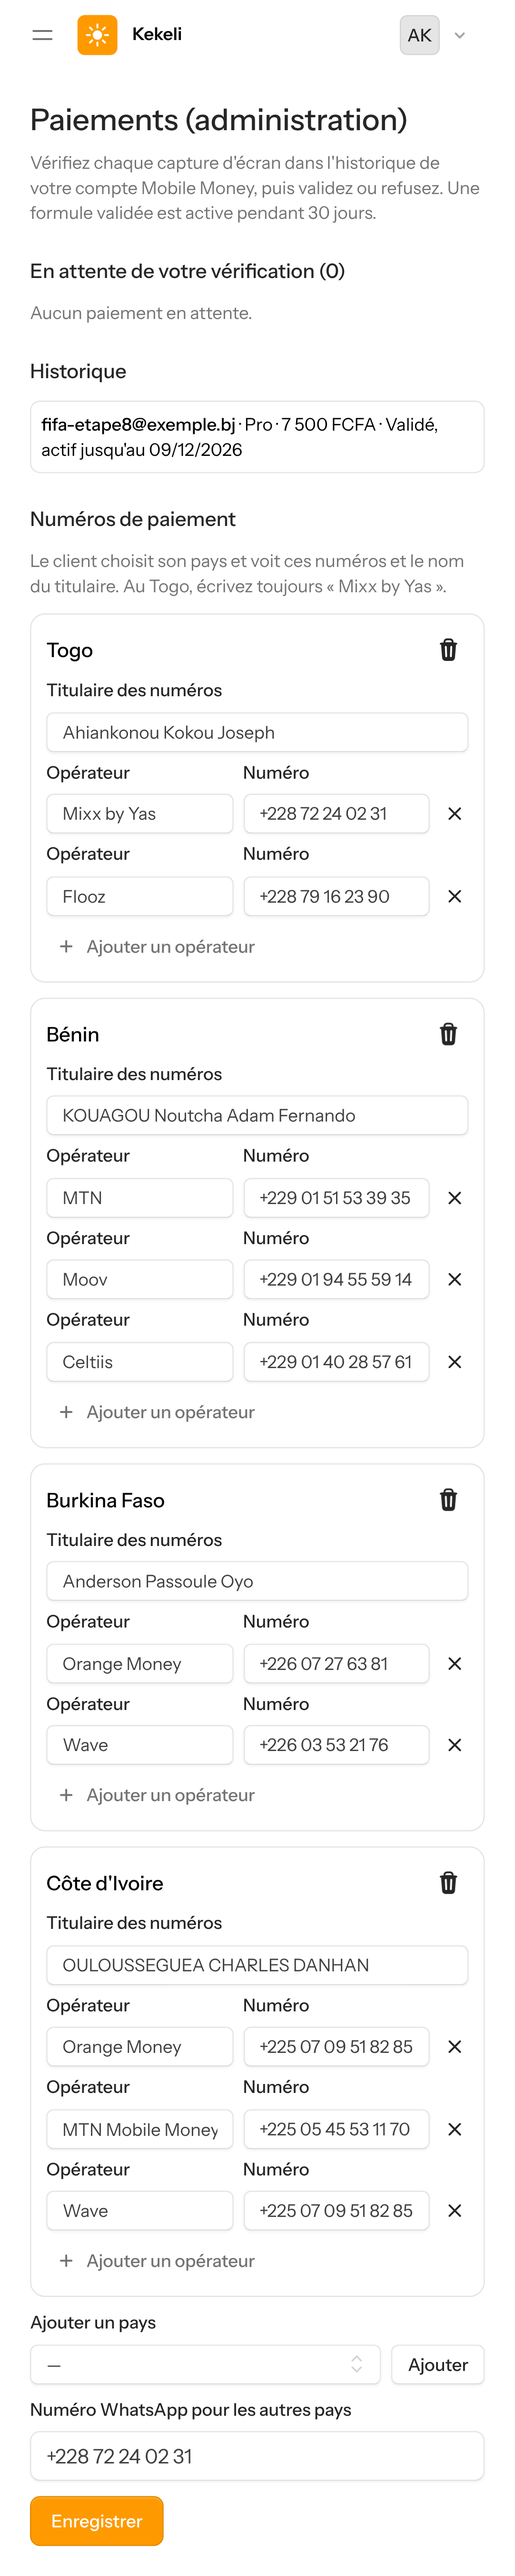
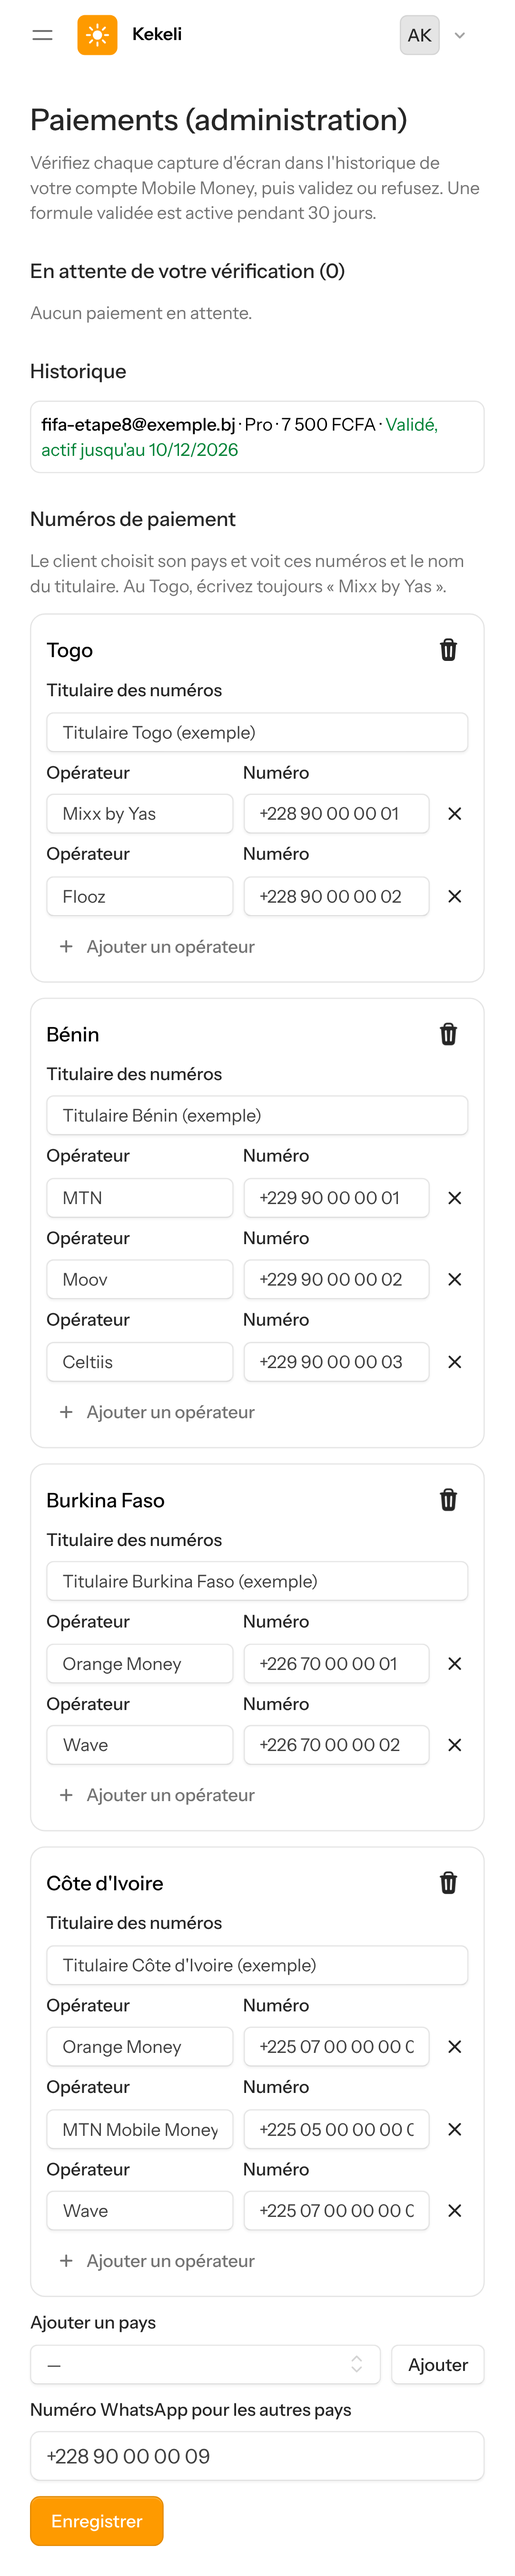
Nettoyage avant le passage en public : plus aucun numéro de paiement ni titulaire dans le dépôt, licence « Tous droits réservés »
- Les pays, numéros, titulaires et le numéro WhatsApp ne sont plus écrits dans config/kekeli.php ni dans CLAUDE.md : ils se règlent seulement dans Administration → Paiements (base de données).
- Pages juridiques : le contact WhatsApp vient du réglage de l'administration (composant legal-contact).
- Page de paiement : message clair quand aucun moyen de paiement n'est encore réglé pour le pays.
- Tests des paiements avec des titulaires et des numéros inventés, et test qui vérifie qu'aucun numéro n'est dans le code.
- Captures de l'étape 8 refaites avec des données inventées (les anciennes montraient les vrais numéros).
- Fichier LICENSE « Tous droits réservés — Joseph Ahiankonou », phrase dans le README, licence « proprietary » dans composer.json.

Claude-Session: https://claude.ai/code/session_01LdDqrkxoaQ87kKiJPA4bsJ

diff --git a/tests/Feature/PaymentTest.php b/tests/Feature/PaymentTest.php
@@ -22,6 +22,15 @@ class PaymentTest extends TestCase
     {
         parent::setUp();
         Storage::fake('local');
+
+        // Numéros et titulaires inventés : les vrais se règlent seulement dans Administration → Paiements.
+        app(Settings::class)->set('payment_countries', [
+            'TG' => ['holder' => 'Titulaire Togo', 'methods' => [['name' => 'Mixx by Yas', 'number' => '+228 90 00 00 01'], ['name' => 'Flooz', 'number' => '+228 90 00 00 02']]],
+            'BJ' => ['holder' => 'Titulaire Bénin', 'methods' => [['name' => 'MTN', 'number' => '+229 90 00 00 01'], ['name' => 'Moov', 'number' => '+229 90 00 00 02'], ['name' => 'Celtiis', 'number' => '+229 90 00 00 03']]],
+            'BF' => ['holder' => 'Titulaire Burkina Faso', 'methods' => [['name' => 'Orange Money', 'number' => '+226 70 00 00 01'], ['name' => 'Wave', 'number' => '+226 70 00 00 02']]],
+            'CI' => ['holder' => 'Titulaire Côte d\'Ivoire', 'methods' => [['name' => 'Orange Money', 'number' => '+225 07 00 00 00 01'], ['name' => 'Wave', 'number' => '+225 07 00 00 00 02']]],
+        ]);
+        app(Settings::class)->set('payment_whatsapp', '+228 90 00 00 09');
     }
 
     public function test_the_formulas_page_shows_the_published_prices_and_a_button_to_pay(): void
@@ -43,19 +52,19 @@ class PaymentTest extends TestCase
         $this->actingAs($user)->get(route('payments.create', 'pro'))
             ->assertSee('Payer la formule Pro')
             ->assertSee('Mixx by Yas')
-            ->assertSee('+228 72 24 02 31')
+            ->assertSee('+228 90 00 00 01')
             ->assertSee('Flooz')
-            ->assertSee('Ahiankonou Kokou Joseph')
+            ->assertSee('Titulaire Togo')
             ->assertDontSee('T-Money')
             ->assertSee('Aucune référence à taper');
 
         $component = Volt::actingAs($user)->test('payments.create', ['plan' => 'pro'])
             ->assertSet('country', 'TG')
             ->set('country', 'BJ')
-            ->assertSee('KOUAGOU Noutcha Adam Fernando')
+            ->assertSee('Titulaire Bénin')
             ->assertSee('Celtiis')
             ->set('country', 'CI')
-            ->assertSee('OULOUSSEGUEA CHARLES DANHAN')
+            ->assertSee('Titulaire Côte d\'Ivoire')
             ->assertSee('Wave');
 
         // Un fichier qui n'est pas une image est refusé.
@@ -89,7 +98,7 @@ class PaymentTest extends TestCase
         Volt::actingAs($user)->test('payments.create', ['plan' => 'decouverte'])
             ->assertSet('country', 'autre')
             ->assertSee('Écrire sur WhatsApp')
-            ->assertSee('https://wa.me/22872240231?text=', false)
+            ->assertSee('https://wa.me/22890000009?text=', false)
             ->assertDontSee('data-send-payment', false);
     }
 
@@ -200,5 +209,28 @@ class PaymentTest extends TestCase
 
         $client = User::factory()->create(['country' => 'SN']);
         $this->actingAs($client)->get(route('payments.create', 'pro'))->assertSee('Titulaire Sénégal');
+    }
+
+    public function test_no_payment_number_is_written_in_the_code(): void
+    {
+        // Les numéros, les titulaires et le numéro WhatsApp se règlent seulement dans l'administration.
+        $this->assertSame([], config('kekeli.settings.payment_countries'));
+        $this->assertSame('', config('kekeli.settings.payment_whatsapp'));
+
+        app(Settings::class)->set('payment_countries', []);
+        app(Settings::class)->set('payment_whatsapp', '');
+        $user = User::factory()->create(['country' => 'TG']);
+
+        Volt::actingAs($user)->test('payments.create', ['plan' => 'pro'])
+            ->assertSee('Le paiement n\'est pas encore ouvert dans votre pays')
+            ->assertDontSee('wa.me', false);
+        $this->get(route('legal.terms'))->assertOk()->assertSee('depuis votre compte Kekeli')->assertDontSee('wa.me', false);
+        $this->get(route('legal.privacy'))->assertOk()->assertDontSee('wa.me', false);
+    }
+
+    public function test_the_legal_pages_show_the_whatsapp_number_set_by_the_administrator(): void
+    {
+        $this->get(route('legal.terms'))->assertSee('+228 90 00 00 09')->assertSee('https://wa.me/22890000009', false);
+        $this->get(route('legal.privacy'))->assertSee('+228 90 00 00 09');
     }
 }

diff --git a/config/kekeli.php b/config/kekeli.php
@@ -181,30 +181,11 @@ return [
         'plans_published' => true,
 
         // Paiement par Mobile Money avec capture d'écran, validé dans l'administration (Administration → Paiements).
-        // Numéros et titulaires donnés par le porteur du projet le 9 novembre 2026 ; modifiables dans l'administration.
-        // Au Togo, toujours « Mixx by Yas » (jamais l'ancien nom).
-        'payment_countries' => [
-            'TG' => ['holder' => 'Ahiankonou Kokou Joseph', 'methods' => [
-                ['name' => 'Mixx by Yas', 'number' => '+228 72 24 02 31'],
-                ['name' => 'Flooz', 'number' => '+228 79 16 23 90'],
-            ]],
-            'BJ' => ['holder' => 'KOUAGOU Noutcha Adam Fernando', 'methods' => [
-                ['name' => 'MTN', 'number' => '+229 01 51 53 39 35'],
-                ['name' => 'Moov', 'number' => '+229 01 94 55 59 14'],
-                ['name' => 'Celtiis', 'number' => '+229 01 40 28 57 61'],
-            ]],
-            'BF' => ['holder' => 'Anderson Passoule Oyo', 'methods' => [
-                ['name' => 'Orange Money', 'number' => '+226 07 27 63 81'],
-                ['name' => 'Wave', 'number' => '+226 03 53 21 76'],
-            ]],
-            'CI' => ['holder' => 'OULOUSSEGUEA CHARLES DANHAN', 'methods' => [
-                ['name' => 'Orange Money', 'number' => '+225 07 09 51 82 85'],
-                ['name' => 'MTN Mobile Money', 'number' => '+225 05 45 53 11 70'],
-                ['name' => 'Wave', 'number' => '+225 07 09 51 82 85'],
-            ]],
-        ],
-        // Autres pays : un bouton « Écrire sur WhatsApp » pour s'arranger avec le porteur du projet.
-        'payment_whatsapp' => '+228 72 24 02 31',
+        // Les numéros, les titulaires et le numéro WhatsApp ne sont JAMAIS écrits dans le code : ils se règlent
+        // seulement dans Administration → Paiements (enregistrés dans la base). Au Togo, toujours « Mixx by Yas ».
+        'payment_countries' => [],
+        // Autres pays : un bouton « Écrire sur WhatsApp » (numéro réglé dans Administration → Paiements).
+        'payment_whatsapp' => '',
         // Une formule payée est active ce nombre de jours ; un rappel s'affiche ce nombre de jours avant la fin.
         'plan_duration_days' => 30,
         'plan_reminder_days' => 3,

diff --git a/resources/views/livewire/payments/create.blade.php b/resources/views/livewire/payments/create.blade.php
@@ -64,9 +64,12 @@ new class extends Component {
      * Link to write to Kekeli on WhatsApp, for the countries without Mobile Money numbers.
      */
     #[Computed]
-    public function whatsappLink(): string
+    public function whatsappLink(): ?string
     {
         $number = preg_replace('/\D+/', '', (string) app(Settings::class)->get('payment_whatsapp'));
+        if ($number === '') {
+            return null;
+        }
         $country = config('kekeli.countries.'.Auth::user()->country.'.name', '');
         $text = __('Hello, I would like to pay the :plan formula of Kekeli (:price FCFA) from :country. My account: :email', [
             'plan' => $this->details['name'],
@@ -154,8 +157,12 @@ new class extends Component {
             </div>
         @else
             <div class="rounded-xl border border-zinc-200 p-4 dark:border-zinc-700" data-payment-other-country>
-                <p class="text-sm">{{ __('Mobile Money payment is not yet available in your country. Write to us on WhatsApp: we will find a solution together.') }}</p>
-                <flux:button :href="$this->whatsappLink" target="_blank" variant="primary" icon="chat-bubble-left-right" class="mt-3 w-full !bg-[#25d366] !border-[#25d366]">{{ __('Write on WhatsApp') }}</flux:button>
+                @if ($this->whatsappLink)
+                    <p class="text-sm">{{ __('Mobile Money payment is not yet available in your country. Write to us on WhatsApp: we will find a solution together.') }}</p>
+                    <flux:button :href="$this->whatsappLink" target="_blank" variant="primary" icon="chat-bubble-left-right" class="mt-3 w-full !bg-[#25d366] !border-[#25d366]">{{ __('Write on WhatsApp') }}</flux:button>
+                @else
+                    <p class="text-sm" data-payment-unavailable>{{ __('Payment is not yet open in your country. Come back soon: Kekeli will tell you here as soon as it is possible.') }}</p>
+                @endif
             </div>
         @endif
     @endif

diff --git a/scripts/preparer-captures-etape-8.php b/scripts/preparer-captures-etape-8.php
@@ -33,6 +33,15 @@ $sauvegarde = function (Project $project): void {
     $project->forceFill(['backup_at' => now()->subHour()])->save();
 };
 
+// Numéros et titulaires inventés (les vrais se règlent seulement dans Administration → Paiements, jamais dans le dépôt).
+app(Settings::class)->set('payment_countries', [
+    'TG' => ['holder' => 'Titulaire Togo (exemple)', 'methods' => [['name' => 'Mixx by Yas', 'number' => '+228 90 00 00 01'], ['name' => 'Flooz', 'number' => '+228 90 00 00 02']]],
+    'BJ' => ['holder' => 'Titulaire Bénin (exemple)', 'methods' => [['name' => 'MTN', 'number' => '+229 90 00 00 01'], ['name' => 'Moov', 'number' => '+229 90 00 00 02'], ['name' => 'Celtiis', 'number' => '+229 90 00 00 03']]],
+    'BF' => ['holder' => 'Titulaire Burkina Faso (exemple)', 'methods' => [['name' => 'Orange Money', 'number' => '+226 70 00 00 01'], ['name' => 'Wave', 'number' => '+226 70 00 00 02']]],
+    'CI' => ['holder' => 'Titulaire Côte d\'Ivoire (exemple)', 'methods' => [['name' => 'Orange Money', 'number' => '+225 07 00 00 00 01'], ['name' => 'MTN Mobile Money', 'number' => '+225 05 00 00 00 01'], ['name' => 'Wave', 'number' => '+225 07 00 00 00 02']]],
+]);
+app(Settings::class)->set('payment_whatsapp', '+228 90 00 00 09');
+
 $admin = $compte('admin-etape8@exemple.tg', 'Administrateur Kekeli', ['is_admin' => true]);
 
 // Cliente gratuite au Togo, avec un site construit.

diff --git a/resources/views/legal/conditions.blade.php b/resources/views/legal/conditions.blade.php
@@ -2,7 +2,7 @@
     <p>Ces conditions s'appliquent à toute personne qui utilise Kekeli, « l'agent IA qui code pour vous ». En créant un compte, vous les acceptez. Kekeli est actuellement en <strong>version bêta</strong> : le service peut changer, s'interrompre ou présenter des erreurs.</p>
 
     <h2>1. Qui sommes-nous ?</h2>
-    <p>Kekeli est un service de Lomé IA School, dirigé par Joseph Ahiankonou, Adidogomé, Lycée Moderne 2, Lomé (Togo). Pour nous écrire : WhatsApp au <a href="https://wa.me/22872240231">+228 72 24 02 31</a>.</p>
+    <p>Kekeli est un service de Lomé IA School, dirigé par Joseph Ahiankonou, Adidogomé, Lycée Moderne 2, Lomé (Togo). Pour nous écrire : <x-legal-contact />.</p>
 
     <h2>2. Votre compte</h2>
     <ul>

diff --git a/resources/views/legal/confidentialite.blade.php b/resources/views/legal/confidentialite.blade.php
@@ -2,7 +2,7 @@
     <p>Cette page explique quelles données Kekeli utilise, pourquoi, avec qui elles sont partagées et quels sont vos droits. Elle respecte la loi togolaise numéro 2019-014 du 29 octobre 2019 relative à la protection des données à caractère personnel.</p>
 
     <h2>1. Responsable</h2>
-    <p>Kekeli, service de Lomé IA School, dirigé par Joseph Ahiankonou, Adidogomé, Lycée Moderne 2, Lomé (Togo). Contact : WhatsApp au <a href="https://wa.me/22872240231">+228 72 24 02 31</a>.</p>
+    <p>Kekeli, service de Lomé IA School, dirigé par Joseph Ahiankonou, Adidogomé, Lycée Moderne 2, Lomé (Togo). Contact : <x-legal-contact />.</p>
 
     <h2>2. Les données que nous utilisons</h2>
     <ul>

diff --git a/resources/views/components/legal-contact.blade.php b/resources/views/components/legal-contact.blade.php
@@ -1,0 +1,2 @@
+{{-- Contact des pages juridiques : le numéro WhatsApp se règle seulement dans Administration → Paiements. --}}@php($whatsapp = trim((string) app(\App\Support\Settings::class)->get('payment_whatsapp')))
+@if ($whatsapp !== '')WhatsApp au <a href="https://wa.me/{{ preg_replace('/\D+/', '', $whatsapp) }}">{{ $whatsapp }}</a>@else{{ __('from your Kekeli account') }}@endif

diff --git a/CLAUDE.md b/CLAUDE.md
@@ -121,7 +121,7 @@ kekeli.dev, à acheter avant la mise en ligne.
 
 ### Paiements
 - **Au départ, pas d'agrégateur de paiement.** L'utilisateur paie par Mobile Money, envoie la **capture d'écran** de son paiement dans Kekeli, et **l'administrateur valide manuellement** l'abonnement.
-- **Construit à l'étape 8** (choix du 9 novembre 2026) : le client choisit son pays, voit les numéros et le nom du titulaire, paie et envoie **seulement la capture d'écran** (aucune référence à taper). Validation dans Administration → Paiements ; formule active **30 jours** (sans perdre les jours restants en cas de renouvellement), rappel 3 jours avant la fin, puis retour à la formule gratuite. Pays et numéros (modifiables dans l'administration) : Togo (titulaire Ahiankonou Kokou Joseph : Mixx by Yas, Flooz), Bénin (KOUAGOU Noutcha Adam Fernando : MTN, Moov, Celtiis), Burkina Faso (Anderson Passoule Oyo : Orange Money, Wave), Côte d'Ivoire (OULOUSSEGUEA CHARLES DANHAN : Orange Money, MTN Mobile Money, Wave). Autres pays : bouton « Écrire sur WhatsApp » (+228 72 24 02 31).
+- **Construit à l'étape 8** (choix du 9 novembre 2026) : le client choisit son pays, voit les numéros et le nom du titulaire, paie et envoie **seulement la capture d'écran** (aucune référence à taper). Validation dans Administration → Paiements ; formule active **30 jours** (sans perdre les jours restants en cas de renouvellement), rappel 3 jours avant la fin, puis retour à la formule gratuite. **Les pays, les numéros, les titulaires et le numéro WhatsApp ne sont jamais écrits dans le code ni dans les documents du dépôt** : ils se règlent seulement dans Administration → Paiements (enregistrés dans la base de données). Autres pays : bouton « Écrire sur WhatsApp » (numéro réglé au même endroit).
 - Au Togo, écrire **« Mixx by Yas »** et **« Flooz »**. Ne jamais écrire « T-Money ».
 - Un agrégateur (CinetPay, PayDunya, FedaPay ou autre) sera ajouté plus tard.
 

diff --git a/README.md b/README.md
@@ -4,6 +4,8 @@ Kekeli veut dire « la lumière » en éwé. C'est un agent de programmation en 
 
 Projet de Lomé IA School, Lomé (Togo).
 
+**Tous droits réservés — Joseph Ahiankonou.** Le code est visible, mais il est interdit de le copier, de le réutiliser ou de le vendre sans autorisation écrite. Voir [`LICENSE`](LICENSE).
+
 - Consignes, cahier des charges et décisions : [`CLAUDE.md`](CLAUDE.md)
 - Plan détaillé par étapes : [`docs/plan.md`](docs/plan.md)
 
